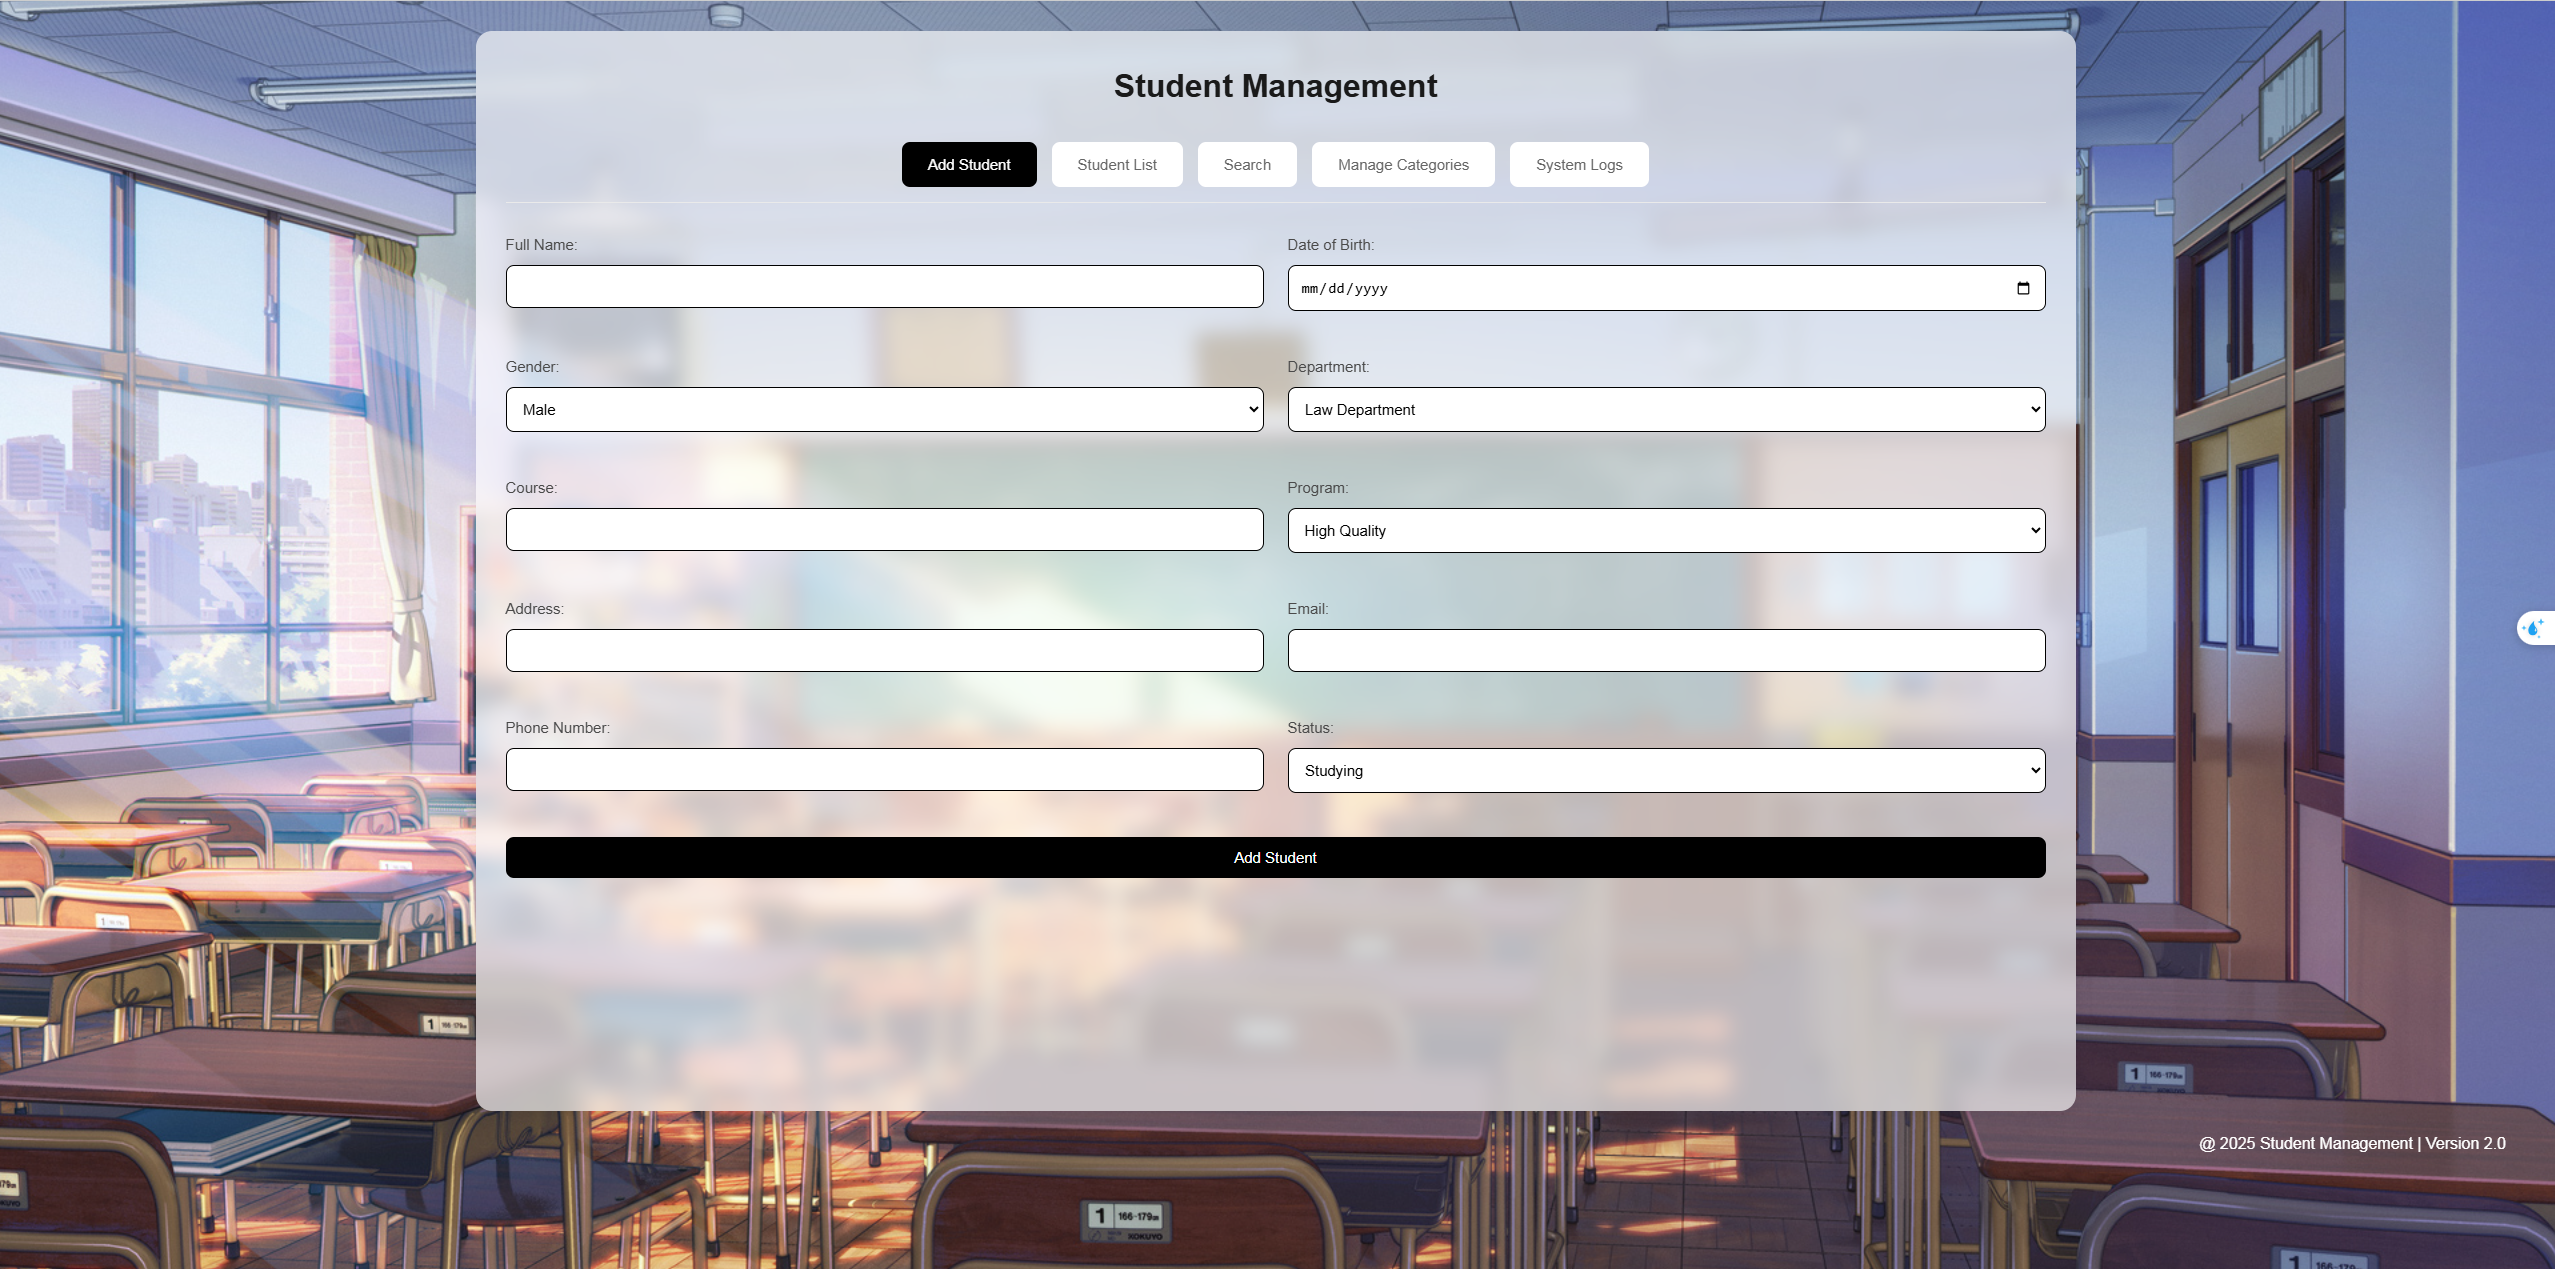
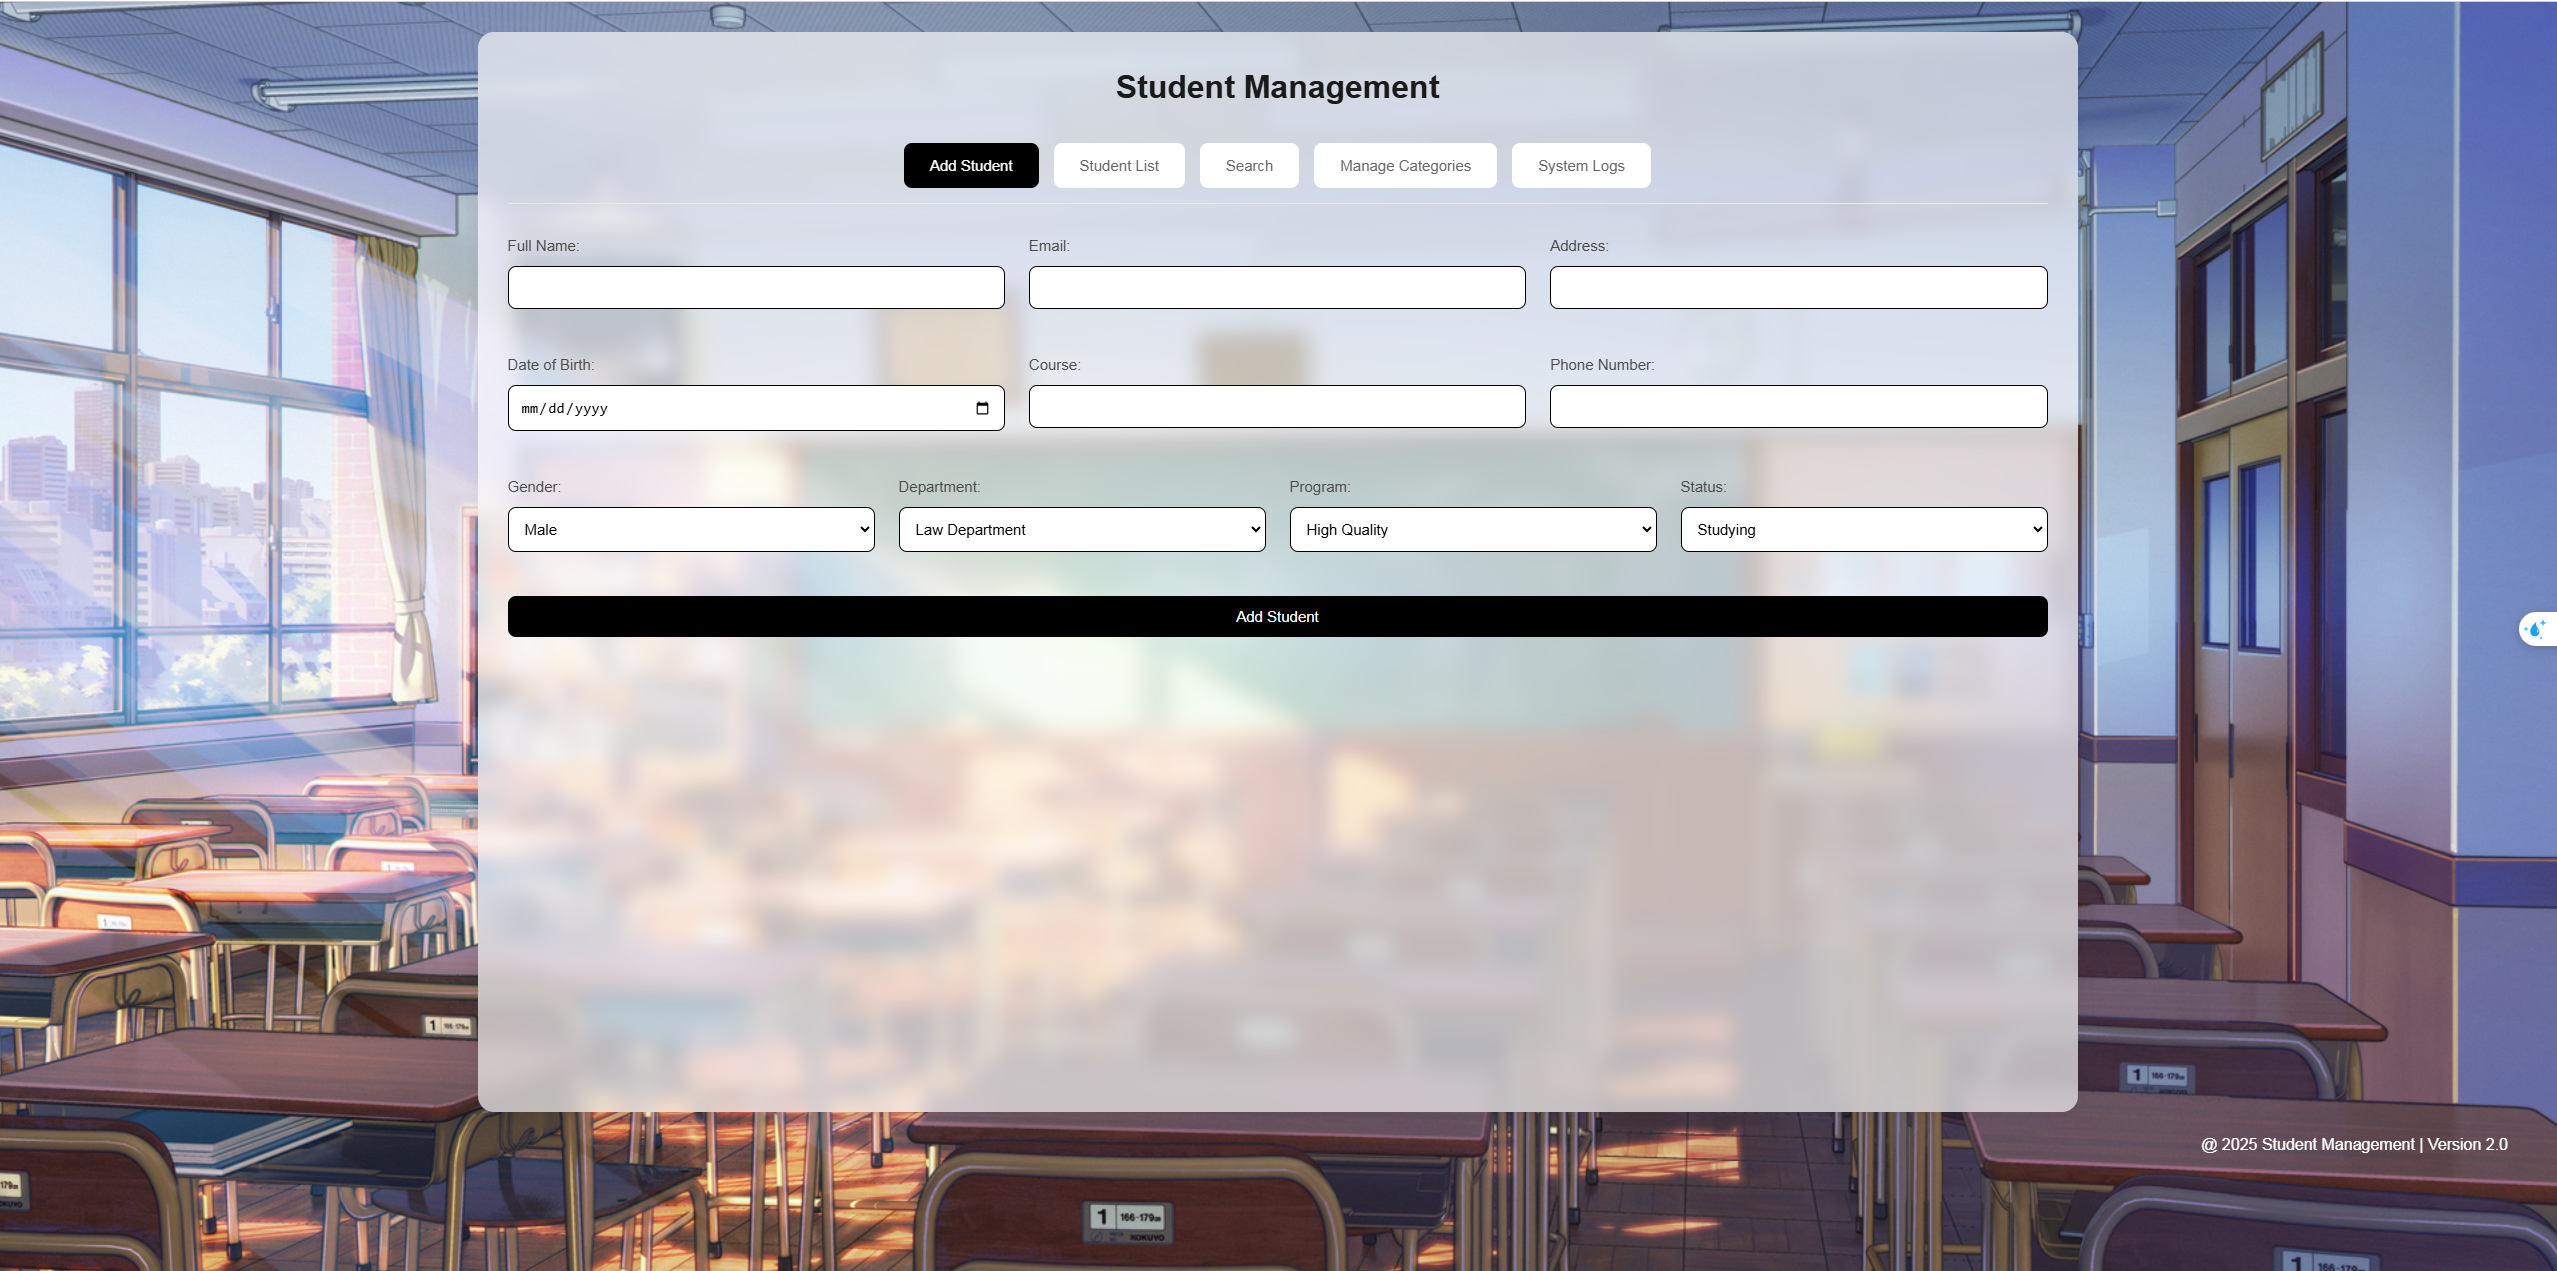
feat: update screenshots

diff --git a/web/index.html b/web/index.html
@@ -30,8 +30,27 @@
               <input type="text" id="fullname" required />
             </div>
             <div class="form-group">
+              <label>Email:</label>
+              <input type="email" id="email" required />
+            </div>
+
+            <div class="form-group">
+              <label>Address:</label>
+              <input type="text" id="address" required />
+            </div>
+          </div>
+          <div class="form-row">
+            <div class="form-group">
               <label>Date of Birth:</label>
               <input type="date" id="dob" required />
+            </div>
+            <div class="form-group">
+              <label>Course:</label>
+              <input type="number" id="course" min="2000" max="2099" required />
+            </div>
+            <div class="form-group">
+              <label>Phone Number:</label>
+              <input type="tel" id="phone" pattern="[0-9]{10,11}" required />
             </div>
           </div>
           <div class="form-row">
@@ -53,12 +72,6 @@
                 <option value="French Department">French Department</option>
               </select>
             </div>
-          </div>
-          <div class="form-row">
-            <div class="form-group">
-              <label>Course:</label>
-              <input type="number" id="course" min="2000" max="2099" required />
-            </div>
             <div class="form-group">
               <label>Program:</label>
               <select id="program" required>
@@ -67,22 +80,6 @@
                 <option value="Talented Bachelor">Talented Bachelor</option>
                 <option value="Advanced Program">Advanced Program</option>
               </select>
-            </div>
-          </div>
-          <div class="form-row">
-            <div class="form-group">
-              <label>Address:</label>
-              <input type="text" id="address" required />
-            </div>
-            <div class="form-group">
-              <label>Email:</label>
-              <input type="email" id="email" required />
-            </div>
-          </div>
-          <div class="form-row">
-            <div class="form-group">
-              <label>Phone Number:</label>
-              <input type="tel" id="phone" pattern="[0-9]{10,11}" required />
             </div>
             <div class="form-group">
               <label>Status:</label>
@@ -111,7 +108,7 @@
         <div
           style="
             display: flex;
-            justify-content: flex-start;
+            justify-content: center;
             gap: 10px;
             margin-bottom: 10px;
           "

diff --git a/web/manager.jsx b/web/manager.jsx
@@ -251,6 +251,7 @@ document.getElementById("search").insertAdjacentHTML(
   "afterbegin",
   `
     <div class="filter-container">
+      <div class="form-row">
         <div class="form-group">
             <label>Gender:</label>
             <select id="filterGender">
@@ -266,10 +267,6 @@ document.getElementById("search").insertAdjacentHTML(
             </select>
         </div>
         <div class="form-group">
-            <label>Course:</label>
-            <input type="number" id="filterCourse" placeholder="">
-        </div>
-        <div class="form-group">
             <label>Program:</label>
             <select id="filterProgram">
                 <option value="">All</option>
@@ -280,6 +277,11 @@ document.getElementById("search").insertAdjacentHTML(
             <select id="filterStatus">
                 <option value="">All</option>
             </select>
+        </div>
+      </div>
+        <div class="form-group">
+            <label>Course:</label>
+            <input type="number" id="filterCourse" placeholder="">
         </div>
     </div>
 `
@@ -414,7 +416,7 @@ if (document.getElementById("filterStatus")) {
 
 function exportToCSV() {
   if (studentManager.students.length === 0) {
-    alert("Không có dữ liệu để xuất!");
+    alert("No data to export!");
     return;
   }
 
